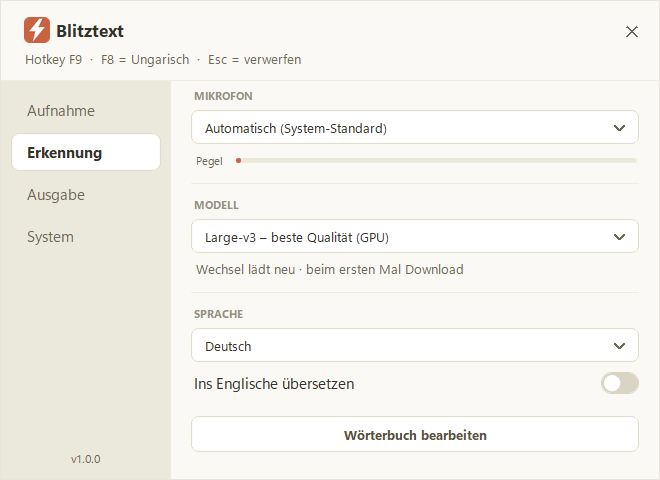
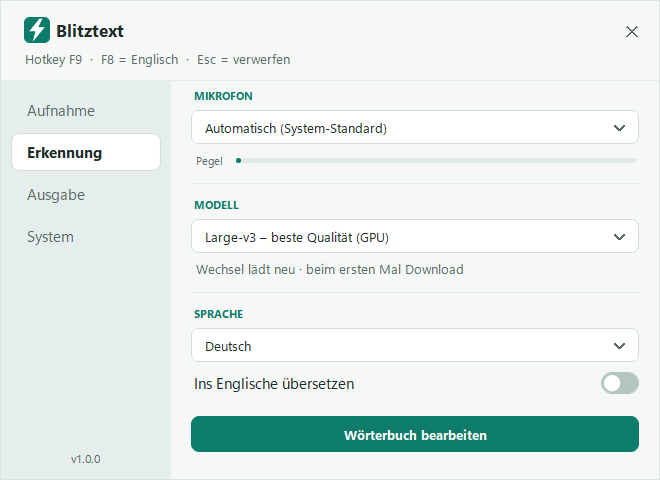
Petrol wird Standard-Stil, README-Bilder in Petrol

diff --git a/settings.py b/settings.py
@@ -3,7 +3,8 @@ Einstellungsfenster fuer Blitztext (Doppelklick auf das Tray-Icon).
 
 Design: randlose helle "Bubble" mit runden Ecken (DWM), flache Flaechen,
 drei umschaltbare Stile (cfg["theme"]):
-  "mix"    - weiss, Lora-Titel, gut lesbare Windows-Schrift, Terrakotta/Gruen (Standard)
+  "mix"    - weiss, Lora-Titel, gut lesbare Windows-Schrift, Terrakotta/Gruen
+  "petrol" - leichtes Gruengrau mit Petrol-Akzent (Standard)
   "claude" - warmes Creme, gleiche Schriften, Terrakotta
   "hell"   - Segoe UI Variable, Windows-Blau
 Die Schriften liegen als TTF in ./fonts und werden nur fuer diesen Prozess
@@ -365,7 +366,7 @@ def _run(ctx):
         if cap["which"]:
             end_capture()
 
-        pal = THEMES.get(cfg.get("theme") or "mix", THEMES["mix"])
+        pal = THEMES.get(cfg.get("theme") or "petrol", THEMES["petrol"])
         BGC = pal["bg"]
 
         # Schriften: Fliesstext in der klaren Windows-Schrift (Familjen Grotesk war schwer
@@ -715,7 +716,7 @@ def _run(ctx):
             c = tk.Canvas(content, height=30, bg=BGC, highlightthickness=0,
                           bd=0, cursor="hand2")
             c.pack(fill="x", padx=20, pady=4)
-            cur = cfg.get("theme") or "mix"
+            cur = cfg.get("theme") or "petrol"
             def draw(_e=None):
                 c.delete("all")
                 w = c.winfo_width()
@@ -738,7 +739,7 @@ def _run(ctx):
                 w = c.winfo_width()
                 idx = min(n_seg - 1, max(0, int((e.x - 3) / ((w - 6) / n_seg))))
                 key = order[idx]
-                if key != (cfg.get("theme") or "mix"):
+                if key != (cfg.get("theme") or "petrol"):
                     cfg["theme"] = key
                     save()
                     rebuild()

diff --git a/blitztext.py b/blitztext.py
@@ -98,7 +98,7 @@ DEFAULT_CONFIG = {
     "voice_commands": True,           # gesprochenes "neue Zeile"/"neuer Absatz" -> Umbruch
     "hotkey_second": "<f8>",          # Zweit-Hotkey: diktiert einmalig in der Zweitsprache ("" = aus)
     "second_language": "en",          # Sprache des Zweit-Hotkeys (Kuerzel wie "en", "hu", "fr" ...)
-    "theme": "mix",                   # Stil des Einstellungsfensters: "mix", "claude", "hell"
+    "theme": "petrol",                # Stil des Einstellungsfensters: "petrol", "mix", "claude", "hell"
     "ui_language": "auto",            # Oberflaeche: "auto" (Windows-Sprache), "de", "en"
     "restore_clipboard": False,       # True = nach dem Einfuegen die vorher kopierte Zwischenablage wiederherstellen
                                       # (Standard aus: landet das Diktat nirgends, bleibt es sonst in der Zwischenablage)

diff --git a/README.md b/README.md
@@ -88,7 +88,7 @@ Icon-Farben: grau = Modell lädt · blau = bereit · rot = nimmt auf · orange =
 | **Sprache** | Diktiersprache oder Automatik, optional direkt ins Englische übersetzen |
 | **Ausgabe** | Automatisch einfügen, Zwischenablage danach zurücksetzen, Enter, Tippen statt Einfügen, Sprachbefehle |
 | **System** | Mit Windows starten, Status-Anzeige (HUD), Update-Hinweis ein/aus |
-| **Darstellung** | Vier Stile (Mix, Claude, Hell, Petrol) und Oberflächen-Sprache (Automatisch, Deutsch, English) |
+| **Darstellung** | Vier Stile (Petrol als Standard, Mix, Claude, Hell) und Oberflächen-Sprache (Automatisch, Deutsch, English) |
 
 Links wählst du den Bereich (Aufnahme, Erkennung, Ausgabe, System), rechts stellst du ihn ein. Auf kleinen Bildschirmen scrolliert die Seite mit dem Mausrad.
 
